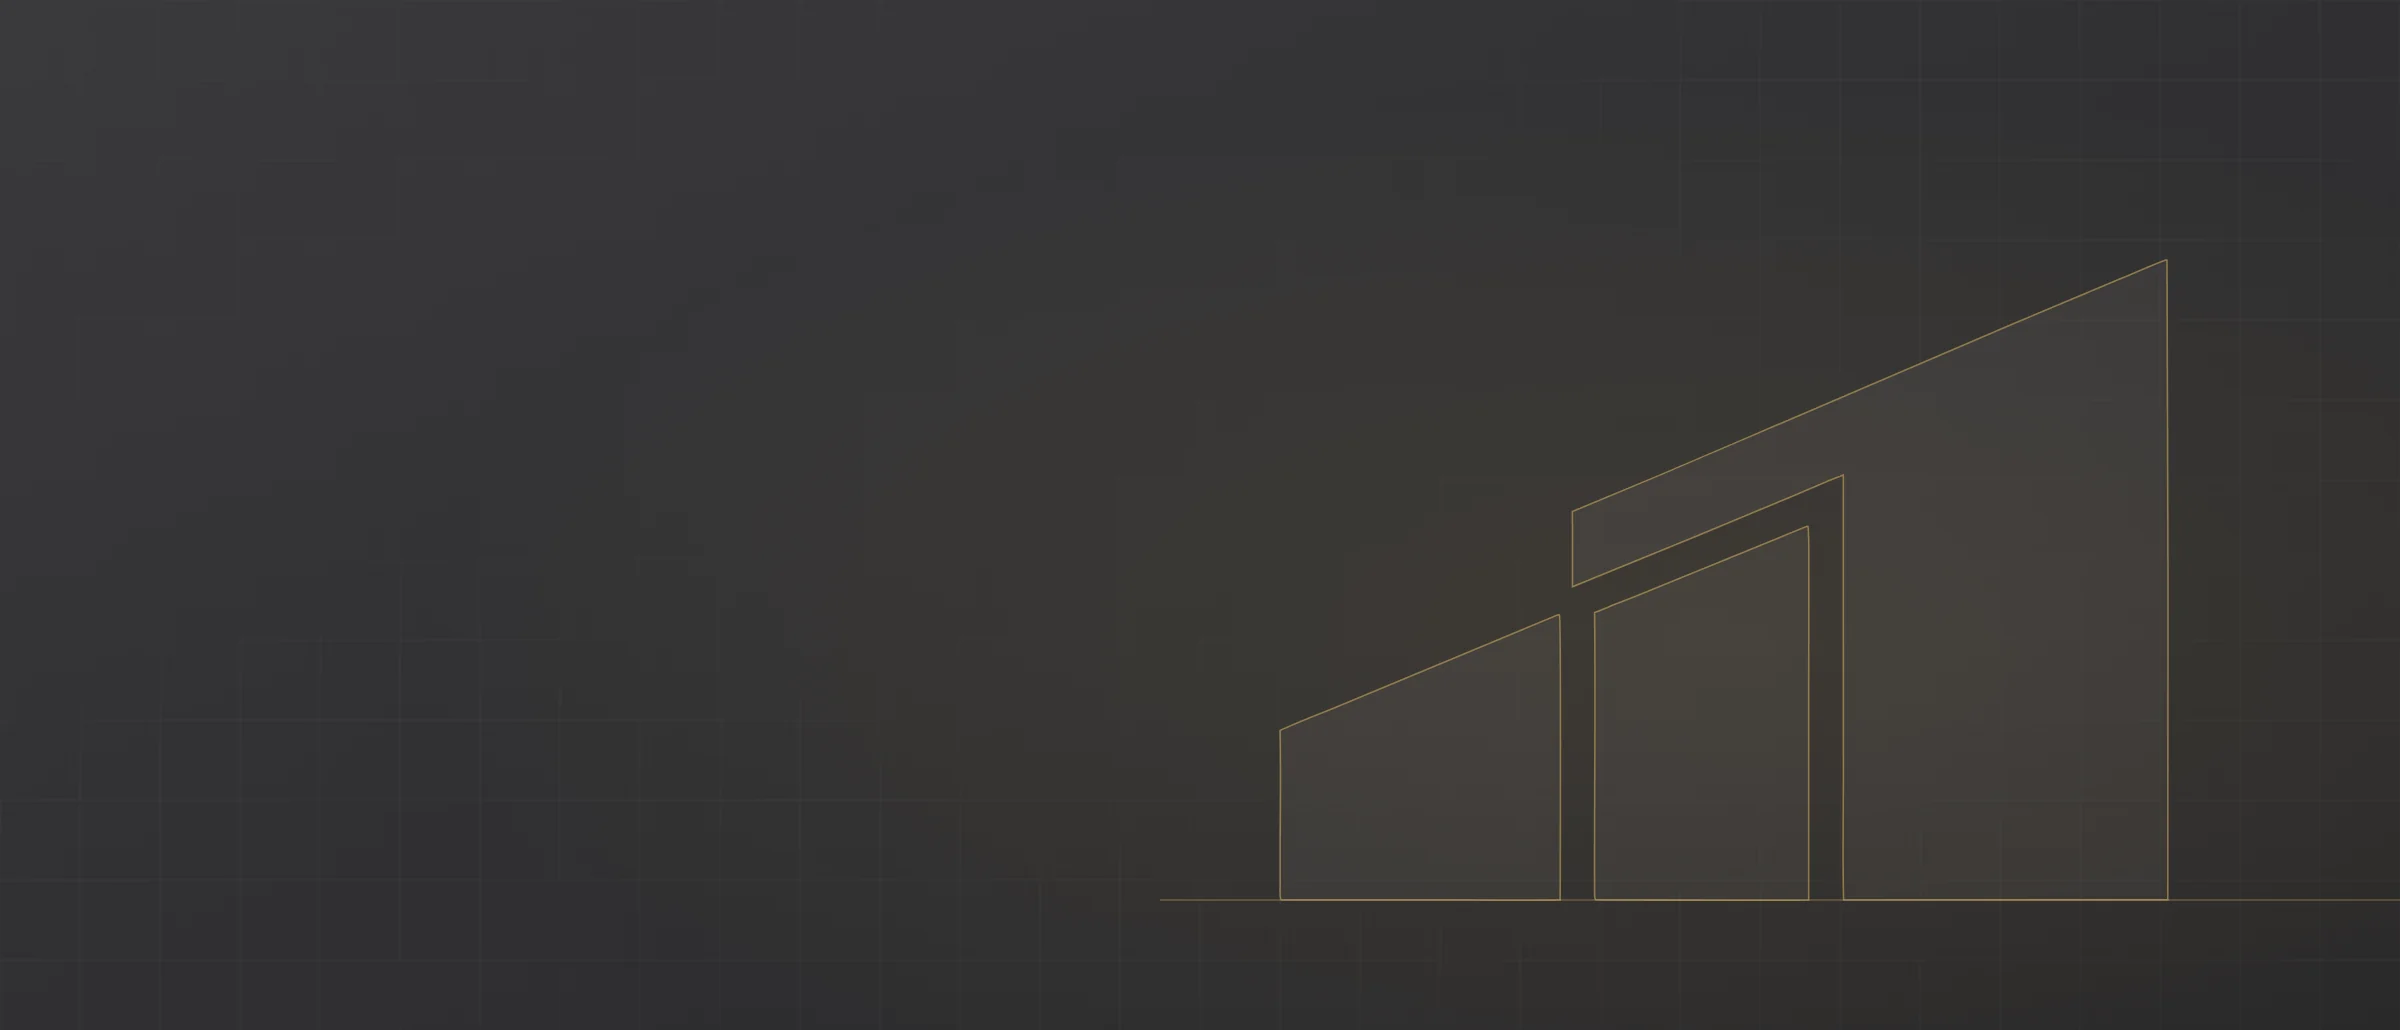
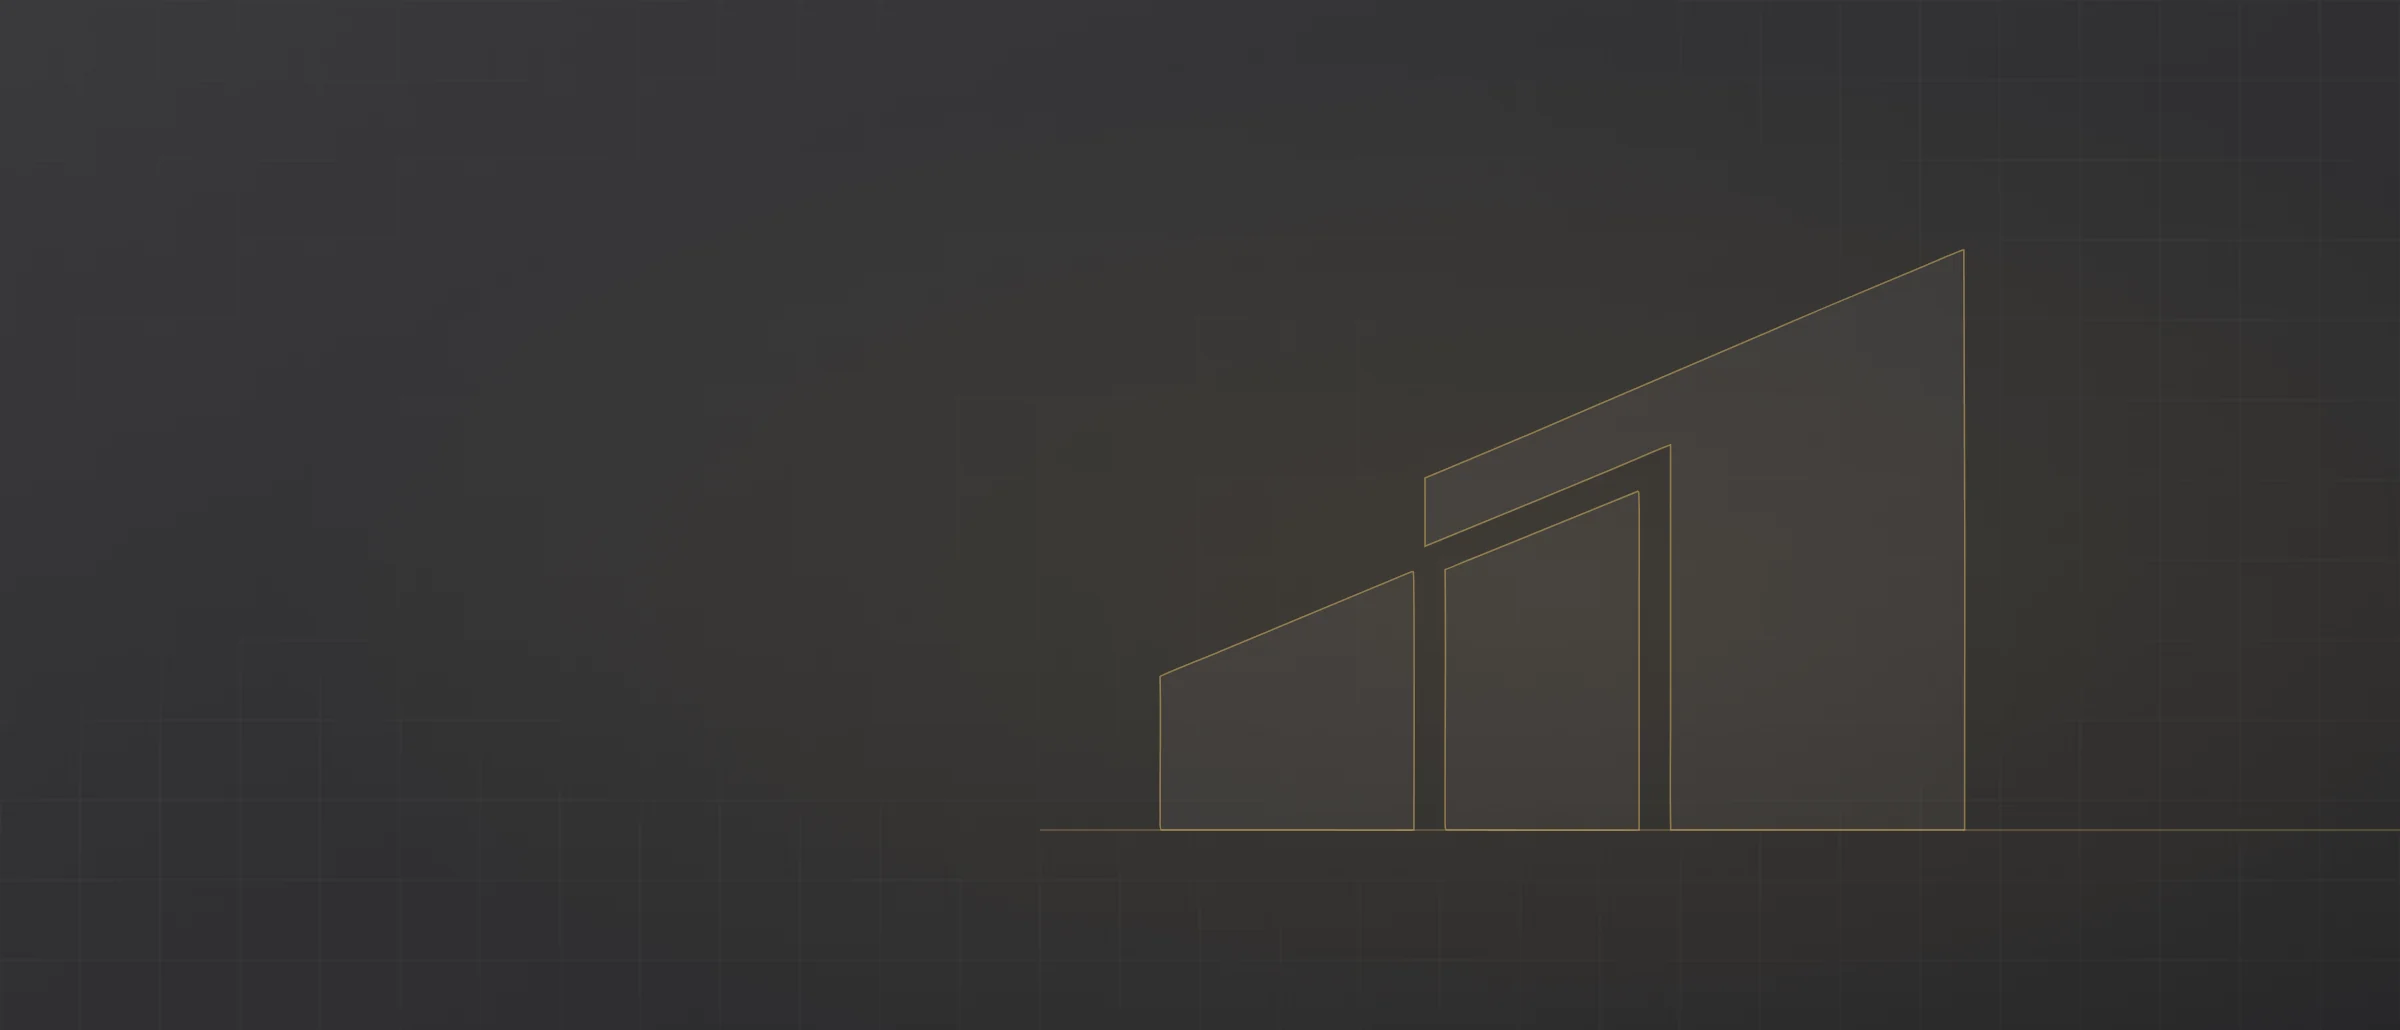
Fit the placeholder hero mark inside the hero crop on desktop and phone
Claude-Session: https://claude.ai/code/session_01BD6pcECZbyAXh6RgtrXw5H

diff --git a/src/lib/media.ts b/src/lib/media.ts
@@ -917,7 +917,7 @@ export const media = {
     // Branded placeholder until the shoot is done.
     src: photo_montague_placeholder,
     focus: "50% 50%",
-    mobileFocus: "78% 60%",
+    mobileFocus: "68% 60%",
     prompt:
       "Well-kept multi-tenant industrial park in Montague Gardens, Cape Town: two adjoining warehouse units with light grey cladding and roller doors, a shared yard with two access gates, parking bays, mountains faint on the horizon, clean even midday light.",
   }),
@@ -955,7 +955,7 @@ export const media = {
     // Branded placeholder until the shoot is done.
     src: photo_albert_placeholder,
     focus: "50% 50%",
-    mobileFocus: "78% 60%",
+    mobileFocus: "68% 60%",
     prompt:
       "Heritage red-brick industrial building on Albert Road, Woodstock, Cape Town, tall arched windows, painted steel doors, a building between 7.5 and 13 metres high, creative-district street life out of focus, late-afternoon light.",
   }),

diff --git a/src/lib/media-lqip.ts b/src/lib/media-lqip.ts
@@ -191,7 +191,7 @@ export const LQIP: Record<string, string> = {
   "loop-top-down-site":
[1 lines of base64/hex data omitted]
   "albert-placeholder":
[2 lines of base64/hex data omitted]
   "montague-placeholder":
[2 lines of base64/hex data omitted]
 };
